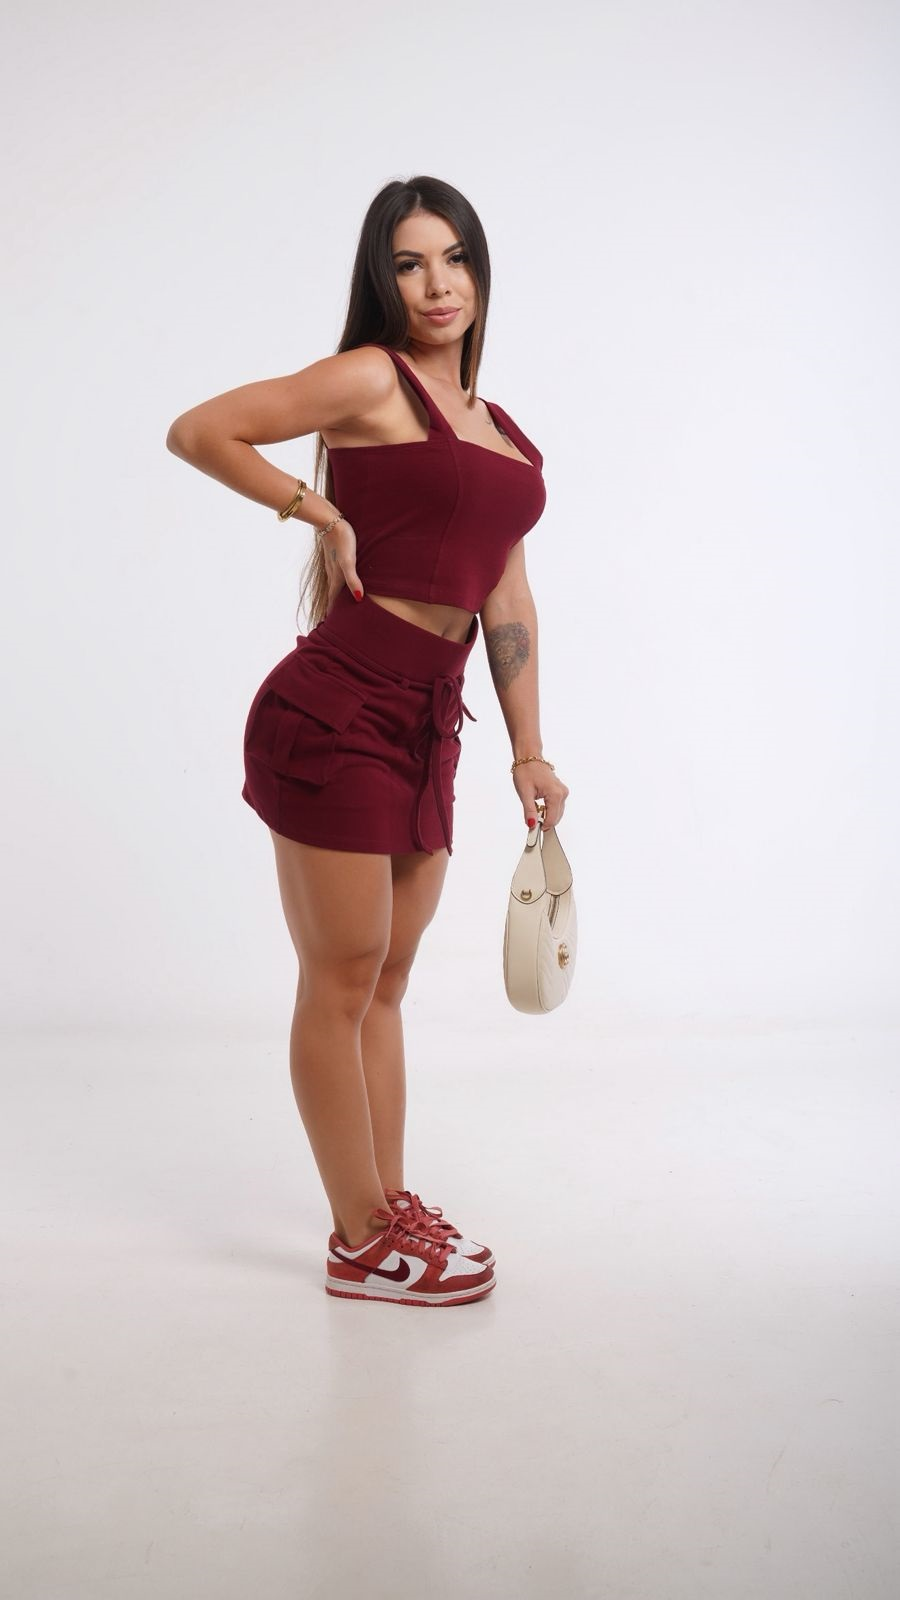
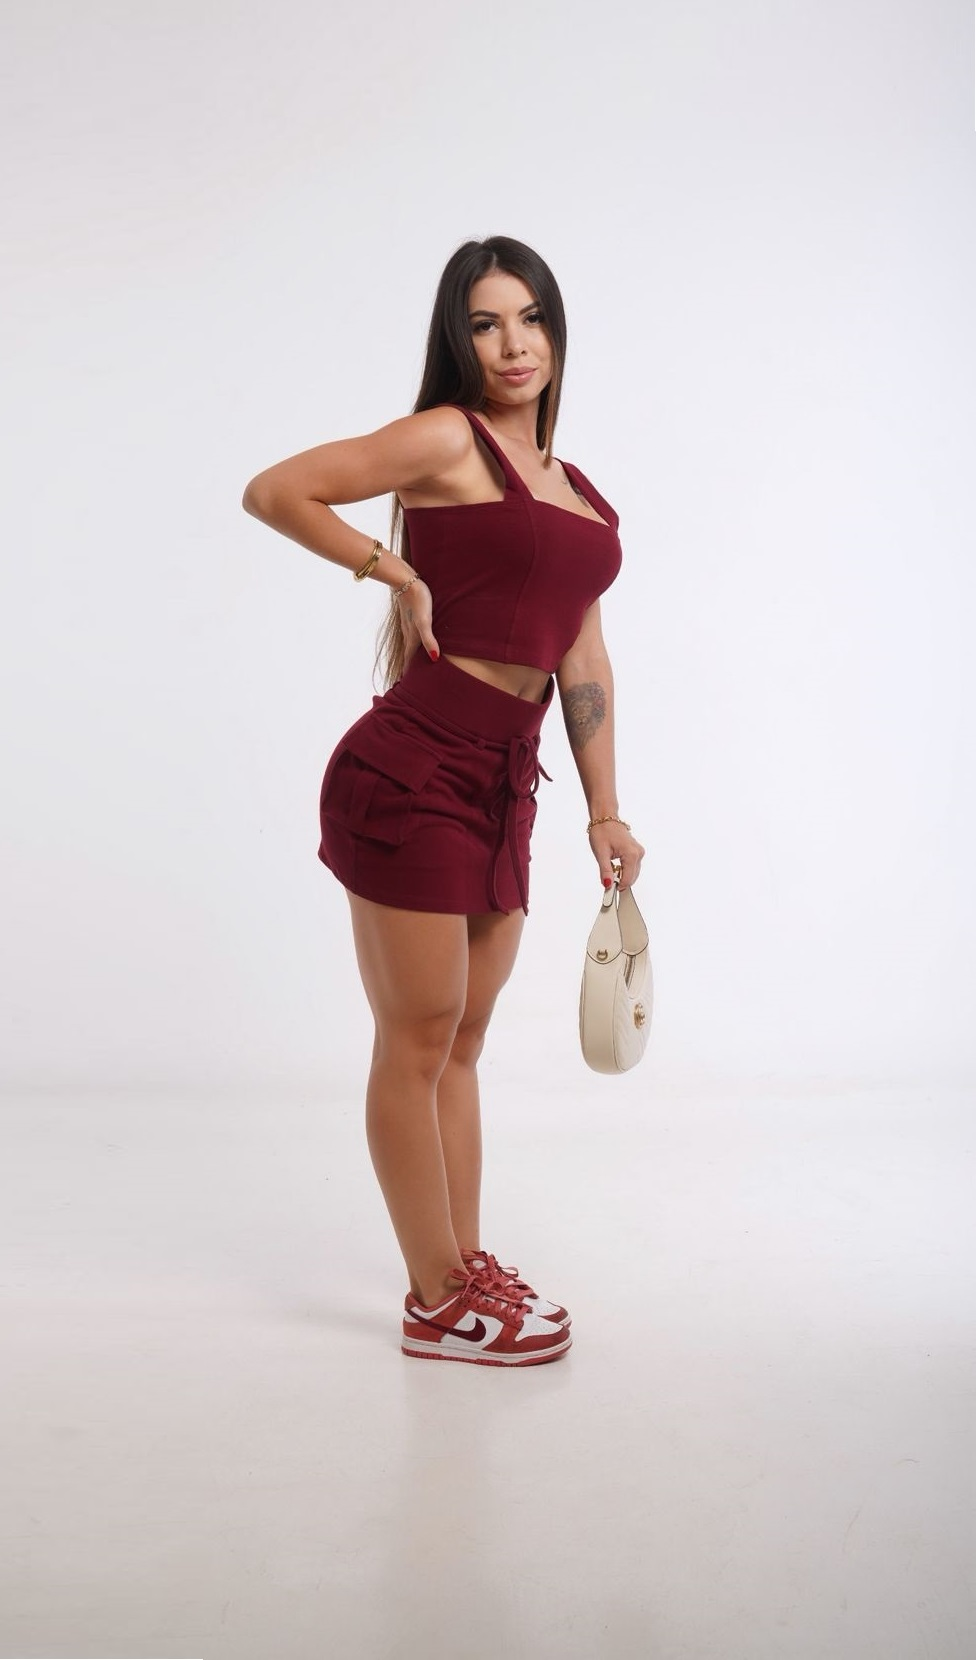
Implementa carrossel de imagens na seção Hero mantendo a estrutura fixa

Changed region(s): [[0.1867, 0.0938, 0.6844, 0.8438], [0.9956, 0.0, 1.0, 0.0938]]

diff --git a/client/src/pages/home.tsx b/client/src/pages/home.tsx
@@ -1,7 +1,6 @@
 import { useState, useEffect } from 'react';
 import { Link } from 'wouter';
 import { Button } from '@/components/ui/button';
-import { Card, CardContent } from '@/components/ui/card';
 import { Skeleton } from '@/components/ui/skeleton';
 import { Truck, Shield, RotateCcw, ArrowRight } from 'lucide-react';
 import Header from '@/components/layout/header';
@@ -15,13 +14,20 @@ export default function Home() {
   const [featuredProducts, setFeaturedProducts] = useState<MockProduct[]>([]);
   const [categories, setCategories] = useState<MockCategory[]>([]);
   const [isLoading, setIsLoading] = useState(true);
+  const [currentImageIndex, setCurrentImageIndex] = useState(0);
+
+  const images = [
+    "/images/tras.jpg",
+    "/images/lado.jpg",
+    "/images/frente.jpg", // Troque pelos caminhos corretos
+    "/images/glamour-frente.jpg"
+  ];
 
   useEffect(() => {
-    // Simular carregamento de dados
     const loadData = async () => {
       setIsLoading(true);
       await new Promise(resolve => setTimeout(resolve, 500)); // Simular delay de rede
-      
+
       const featured = getFilteredProducts({ featured: true });
       setFeaturedProducts(featured);
       setCategories(mockCategories);
@@ -29,6 +35,12 @@ export default function Home() {
     };
 
     loadData();
+
+    const interval = setInterval(() => {
+      setCurrentImageIndex((prevIndex) => (prevIndex + 1) % images.length);
+    }, 3000);
+
+    return () => clearInterval(interval);
   }, []);
 
   return (
@@ -36,19 +48,19 @@ export default function Home() {
       <Header />
       
       {/* Hero Section */}
-<section className="bg-gradient-to-br from-gray-50 to-gray-100 py-16 lg:py-24">
-  <div className="max-w-7xl mx-auto px-4 sm:px-6 lg:px-8">
-    <div className="grid grid-cols-1 lg:grid-cols-2 gap-12 items-center">
-      <div className="space-y-6">
-        <h2 className="text-3xl sm:text-4xl lg:text-6xl font-bold text-gray-900 mb-4">
-          Nova Coleção
-          <span className="block text-gradient-black">
-            Primavera/Verão
-          </span>
-        </h2>
-        <p className="text-base sm:text-lg lg:text-xl text-gray-600 mb-6 leading-relaxed">
-          Descubra as últimas tendências em moda feminina. Peças exclusivas com design contemporâneo e qualidade premium.
-        </p>
+      <section className="bg-gradient-to-br from-gray-50 to-gray-100 py-16 lg:py-24">
+        <div className="max-w-7xl mx-auto px-4 sm:px-6 lg:px-8">
+          <div className="grid grid-cols-1 lg:grid-cols-2 gap-12 items-center">
+            <div className="space-y-6">
+              <h2 className="text-3xl sm:text-4xl lg:text-6xl font-bold text-gray-900 mb-4">
+                Nova Coleção
+                <span className="block text-gradient-black">
+                  Primavera/Verão
+                </span>
+              </h2>
+              <p className="text-base sm:text-lg lg:text-xl text-gray-600 mb-6 leading-relaxed">
+                Descubra as últimas tendências em moda feminina. Peças exclusivas com design contemporâneo e qualidade premium.
+              </p>
               <div className="flex flex-col sm:flex-row gap-4">
                 <Link href="/products">
                   <Button className="bg-gradient-to-r from-gray-800 to-black hover:from-gray-900 hover:to-gray-800 text-white px-8 py-3 rounded-xl">
@@ -63,11 +75,14 @@ export default function Home() {
               </div>
             </div>
             <div className="relative">
-              <img
-                src="/images/tras.jpg"
-                alt="Modelo usando vestido elegante da nova coleção"
-                className="rounded-2xl shadow-2xl w-full h-auto"
-              />
+              {/* Carrossel de Imagens */}
+              <div className="overflow-hidden rounded-2xl shadow-2xl">
+                <img
+                  src={images[currentImageIndex]}
+                  alt="Modelo usando vestido elegante da nova coleção"
+                  className="w-full h-[810px] object-cover rounded-2xl mb-0 transition-opacity duration-500" // Adicionado h-[500px]
+                />
+              </div>
               <div className="absolute -bottom-6 -left-6 bg-white rounded-xl p-4 shadow-xl">
                 <div className="flex items-center space-x-2">
                   <div className="w-3 h-3 bg-green-500 rounded-full"></div>

diff --git a/client/src/lib/mock-data.ts b/client/src/lib/mock-data.ts
@@ -37,8 +37,8 @@ export const mockCategories: MockCategory[] = [
   },
   {
     id: 2,
-    name: "Blusas",
-    slug: "blusas",
+    name: "Top",
+    slug: "Top",
     description: "Blusas femininas modernas e confortáveis",
     imageUrl: "/images/frente.jpg",
     productCount: 22
@@ -66,14 +66,6 @@ export const mockCategories: MockCategory[] = [
     description: "Casacos e jaquetas para o inverno",
     imageUrl: "/images/frente.jpg",
     productCount: 8
-  },
-  { // Nova Categoria
-    id: 6,
-    name: "Conjuntos",
-    slug: "conjuntos",
-    description: "Conjuntos completos para um look perfeito",
-    imageUrl: "/images/frente.jpg", // Imagem representativa
-    productCount: 0 // Será atualizado dinamicamente ou manualmente
   }
 ];
 
@@ -91,7 +83,7 @@ export const mockProducts: MockProduct[] = [
     "/images/tras.jpg"    // Imagem traseira
   ],
     // imageUrl: "https://images.unsplash.com/photo-1595777457583-95e059d581b8?w=400&h=600&fit=crop", //
-    category: "Vestidos",
+    category: "Conjuntos",
     categoryId: 1,
     sizes: [ "M"],
     colors: ["Vinho"],
@@ -258,44 +250,29 @@ export const mockProducts: MockProduct[] = [
     isFeatured: false,
     stock: 14
   },
-  { // Novo produto: Conjunto Júlia Bordo
+  {
     id: 13,
-    name: "Conjunto Júlia Bordo",
-    description: "Conjunto de top e saia com shorts estilo cargo em malha de alta qualidade. Cor bordo elegante, com bolsos funcionais e cintinho que valoriza a silhueta. Peças também vendidas separadamente: Top R$ 145,00, Saia com shorts R$ 360,00.",
-    price: 505.00, // 145 + 360
-    imageUrl: "/images/frente.jpg", // Caminho local
-    category: "Conjuntos",
-    categoryId: 6, // ID da nova categoria "Conjuntos"
-    sizes: ["M"],
-    colors: ["Bordo"],
-    isNew: true,
-    isFeatured: true,
-    stock: 10,
+    name: "Conjunto Glamour",
+    description: "top e saia com shorts no melhor estilo cargo! A cor bordo traz um toque de elegância, perfeita para qualquer ocasião!Com bolsos funcionais e um cintinho que valoriza a silhueta, esse look é ideal para quem busca praticidade sem abrir mão do estilo.",
+    price: 405.59,
+    originalPrice: 449.90,
+    imageUrl: "/images/glamour-lado.jpg",  // Caminho local
     images: [
-      "/images/products/conjunto-julia-bordo-frente.jpg",
-      "/images/products/conjunto-julia-bordo-lado.jpg",
-      "/images/products/conjunto-julia-bordo-costas.jpg",
-    ]
-  },
-  { // Novo produto: Conjunto Glamour Aplicações Premium
-    id: 14,
-    name: "Conjunto Glamour Aplicações Premium",
-    description: "Brilhe intensamente com este cropped e shorts com toque de glamour e aplicações premium. Perfeito para um estilo moderno e autêntico. Peças também vendidas separadamente: Top R$ 250,00, Shorts R$ 275,00.",
-    price: 525.00, // 250 + 275
-    imageUrl: "/images/frente.jpg", // Caminho local
+    "/images/frente.jpg", // Imagem frontal
+    "/images/lado.jpg",   // Imagem lateral
+    "/images/tras.jpg"    // Imagem traseira
+  ],
+    // imageUrl: "https://images.unsplash.com/photo-1595777457583-95e059d581b8?w=400&h=600&fit=crop", //
     category: "Conjuntos",
-    categoryId: 6, // ID da nova categoria "Conjuntos"
-    sizes: ["M"],
-    colors: ["Preto/Prata"],
+    categoryId: 1,
+    sizes: [ "M"],
+    colors: ["Vinho"],
     isNew: true,
     isFeatured: true,
-    stock: 8,
-    images: [ // Caminhos locais das imagens adicionais
-      "/images/products/conjunto-glamour-preto-frente.jpg",
-      "/images/products/conjunto-glamour-preto-lado.jpg",
-      "/images/products/conjunto-glamour-preto-sentada.jpg",
-    ]
+    discount: 24,
+    stock: 15
   },
+
 ];
 
 // Função para filtrar produtos

diff --git a/client/src/pages/login.tsx b/client/src/pages/login.tsx
@@ -59,6 +59,7 @@ export default function Login() {
         <div className="flex justify-center">
           <Card className="w-full max-w-md shadow-2xl border-0">
             <CardHeader className="text-center space-y-2">
+              
               <CardTitle className="text-2xl font-bold bg-gradient-to-r from-gray-800 to-black bg-clip-text text-transparent">
                 Entrar na sua conta
               </CardTitle>

diff --git a/client/src/index.css b/client/src/index.css
@@ -289,3 +289,4 @@ footer ul {
   from { width: 100%; }
   to { width: 0%; }
 }
+
